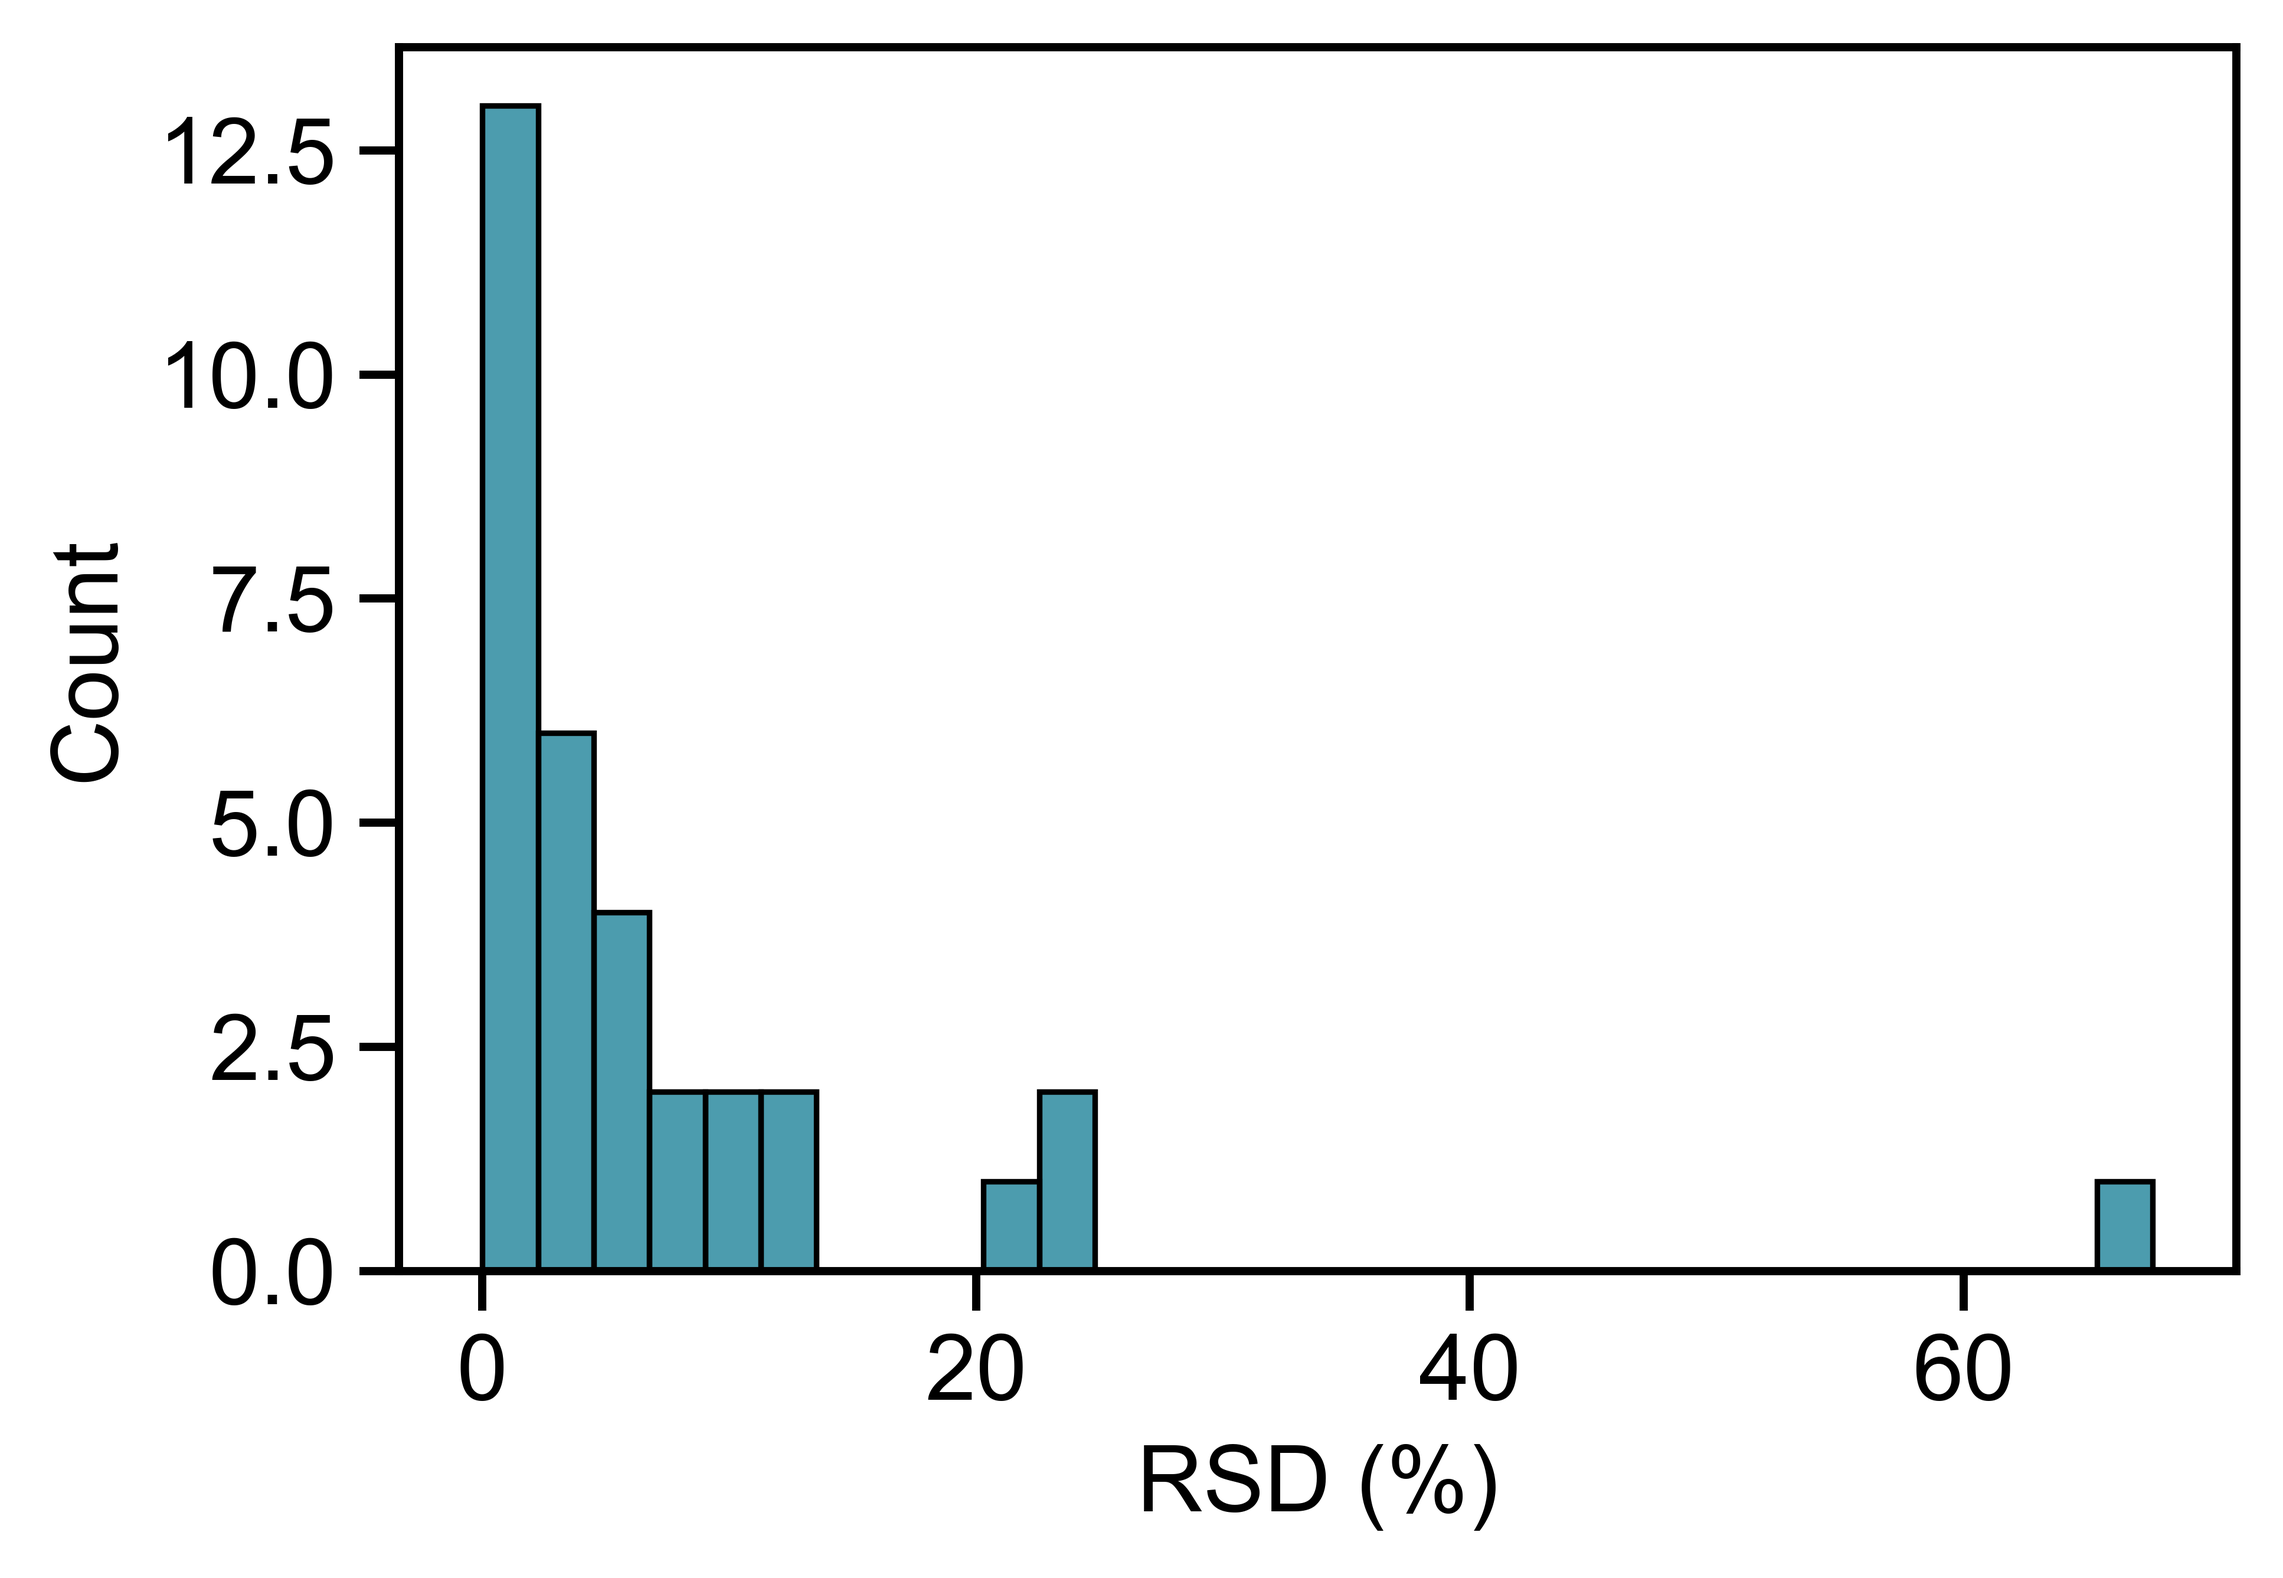
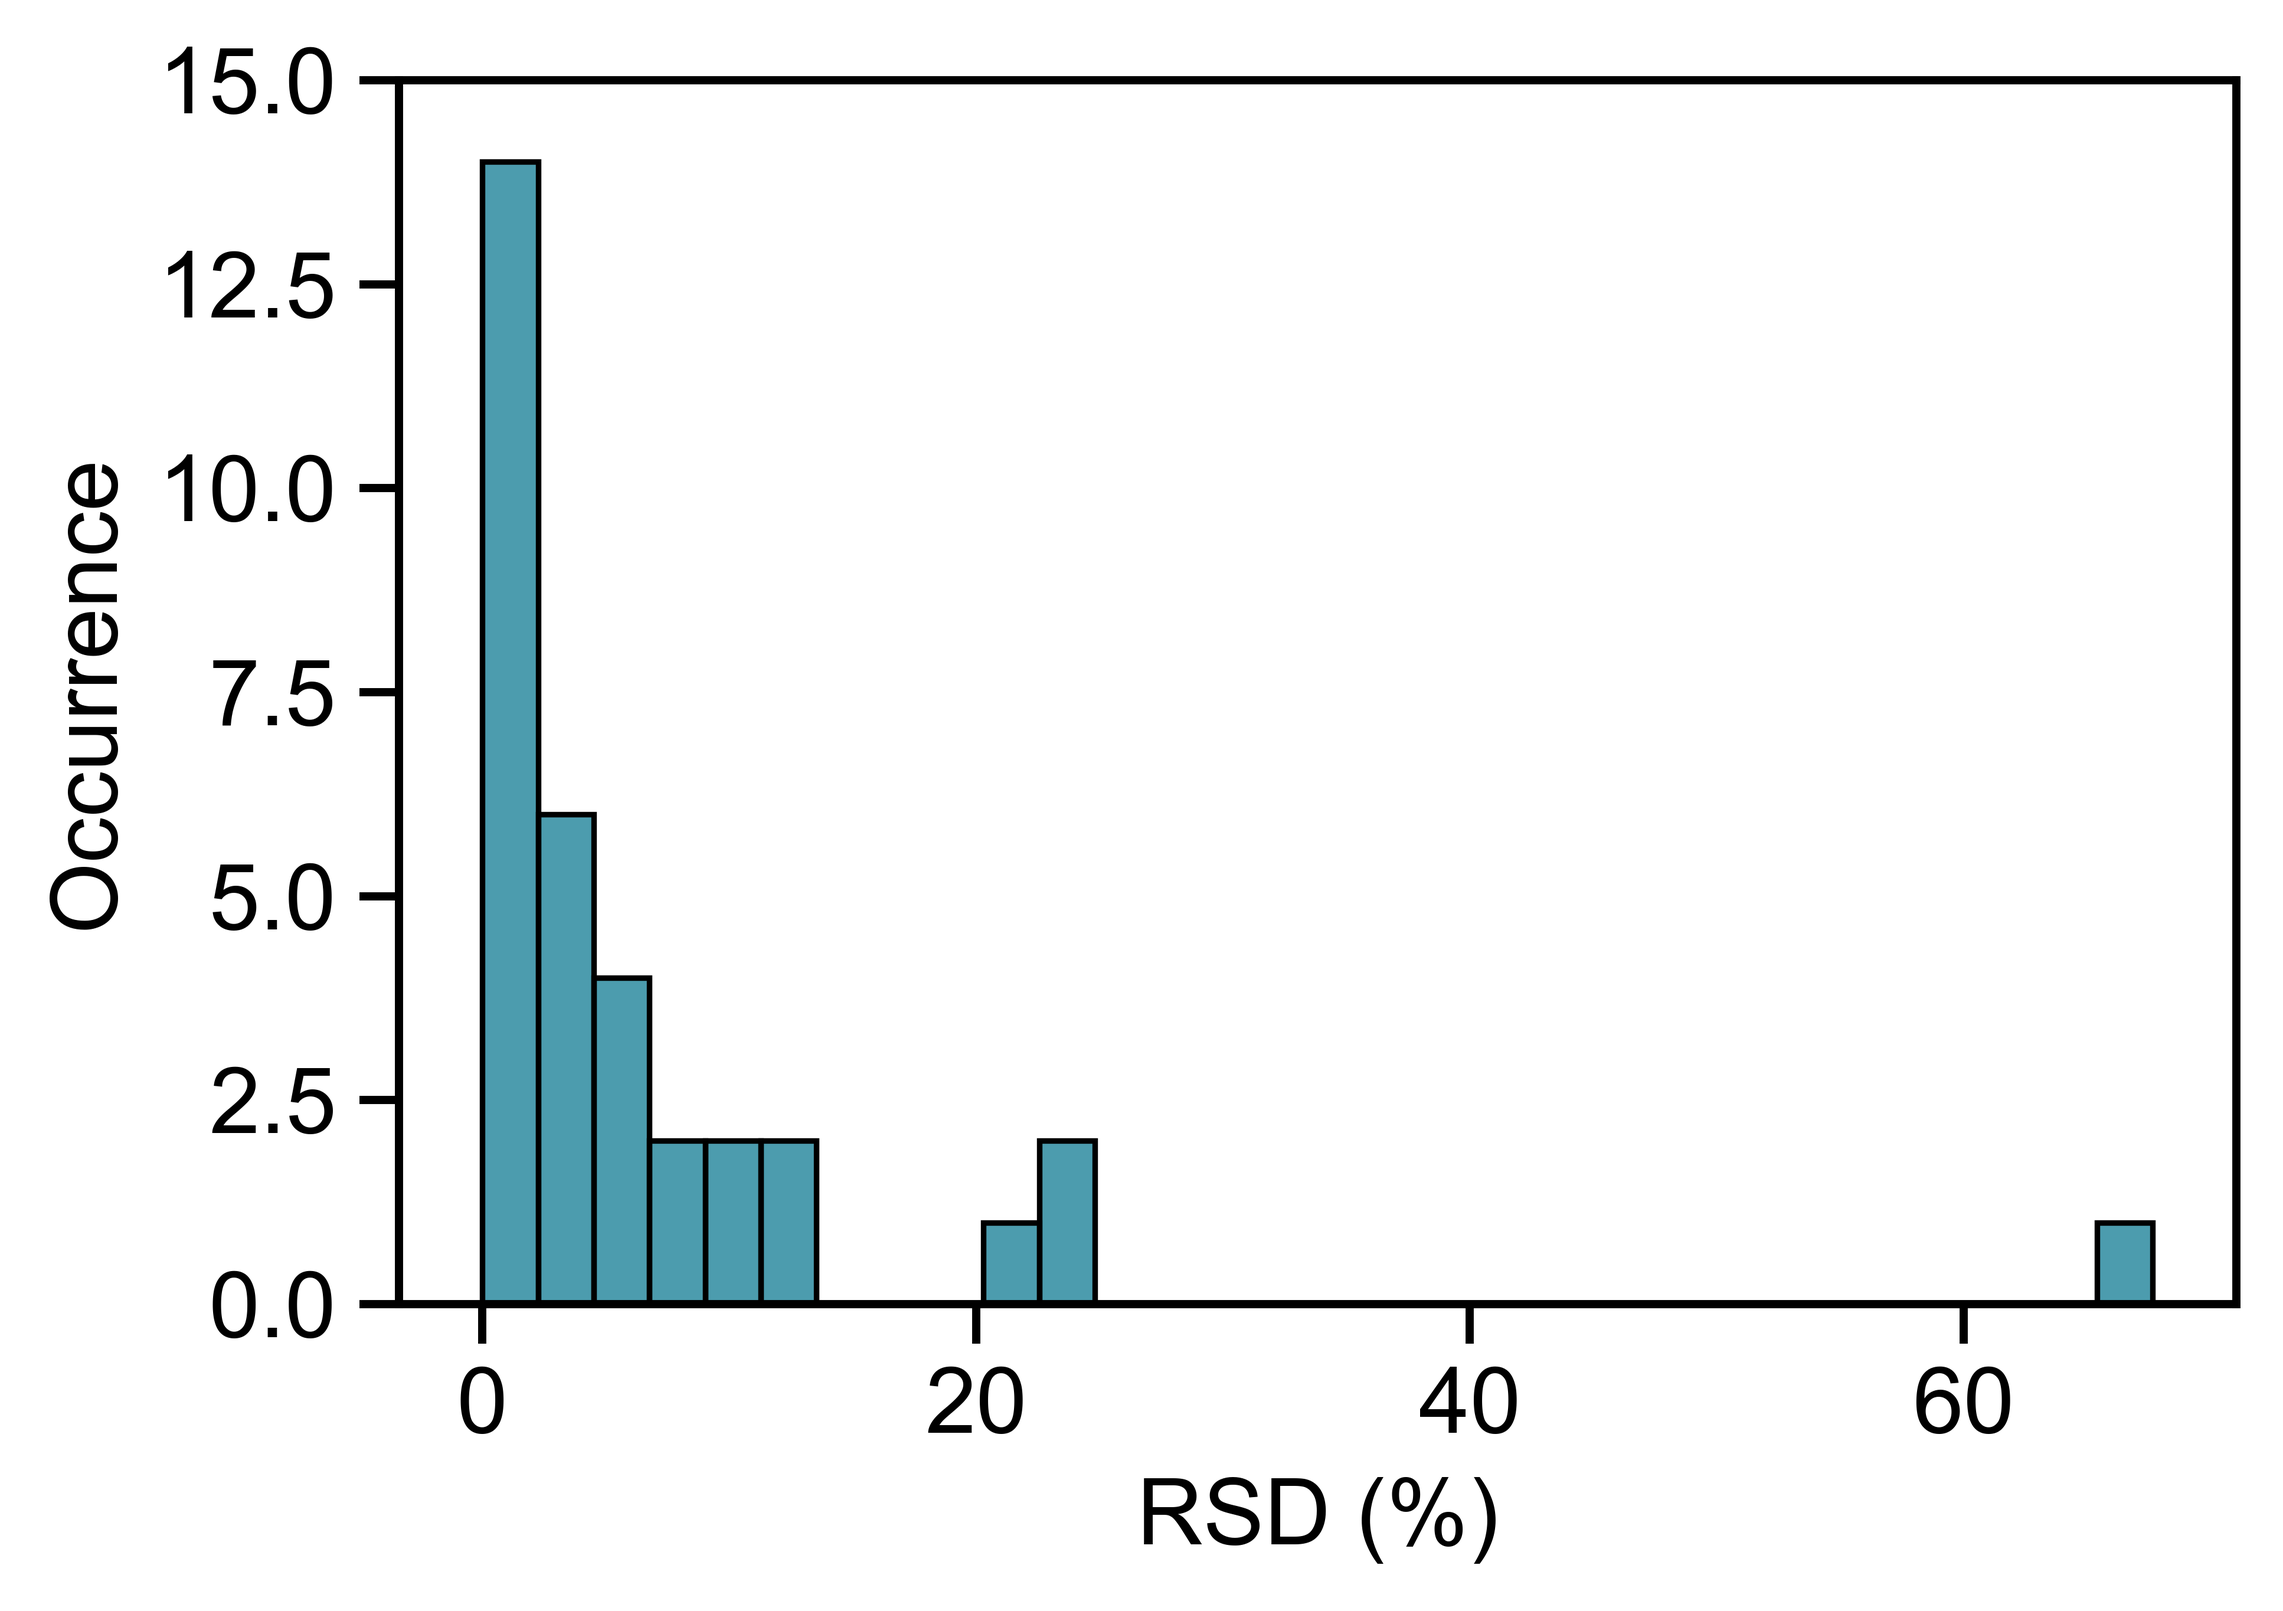
updated

diff --git a/code_/visualization/revision_analysis.py b/code_/visualization/revision_analysis.py
@@ -47,10 +47,10 @@ group_stats["range"] = group_stats["max"] - group_stats["min"]
 plt.figure(figsize=(5,3.5))
 sns.histplot(group_stats['rsd (%)'], bins=30, color="#107b93")
 plt.xlabel("RSD (%)", fontsize=14)
-plt.ylabel("Count", fontsize=14)
+plt.ylabel("Occurrence", fontsize=14)
 # plt.title("Distribution of RSD of log Rg (nm) across Xn groups", fontsize=16)
 plt.tight_layout()
-plt.xlim(0, 13)
+plt.ylim(0, 15)
 save_img_path(VISUALIZATION / "analysis and test", "RSD_distribution_log_Rg_across_Xn_groups.png")
 plt.show()
 
